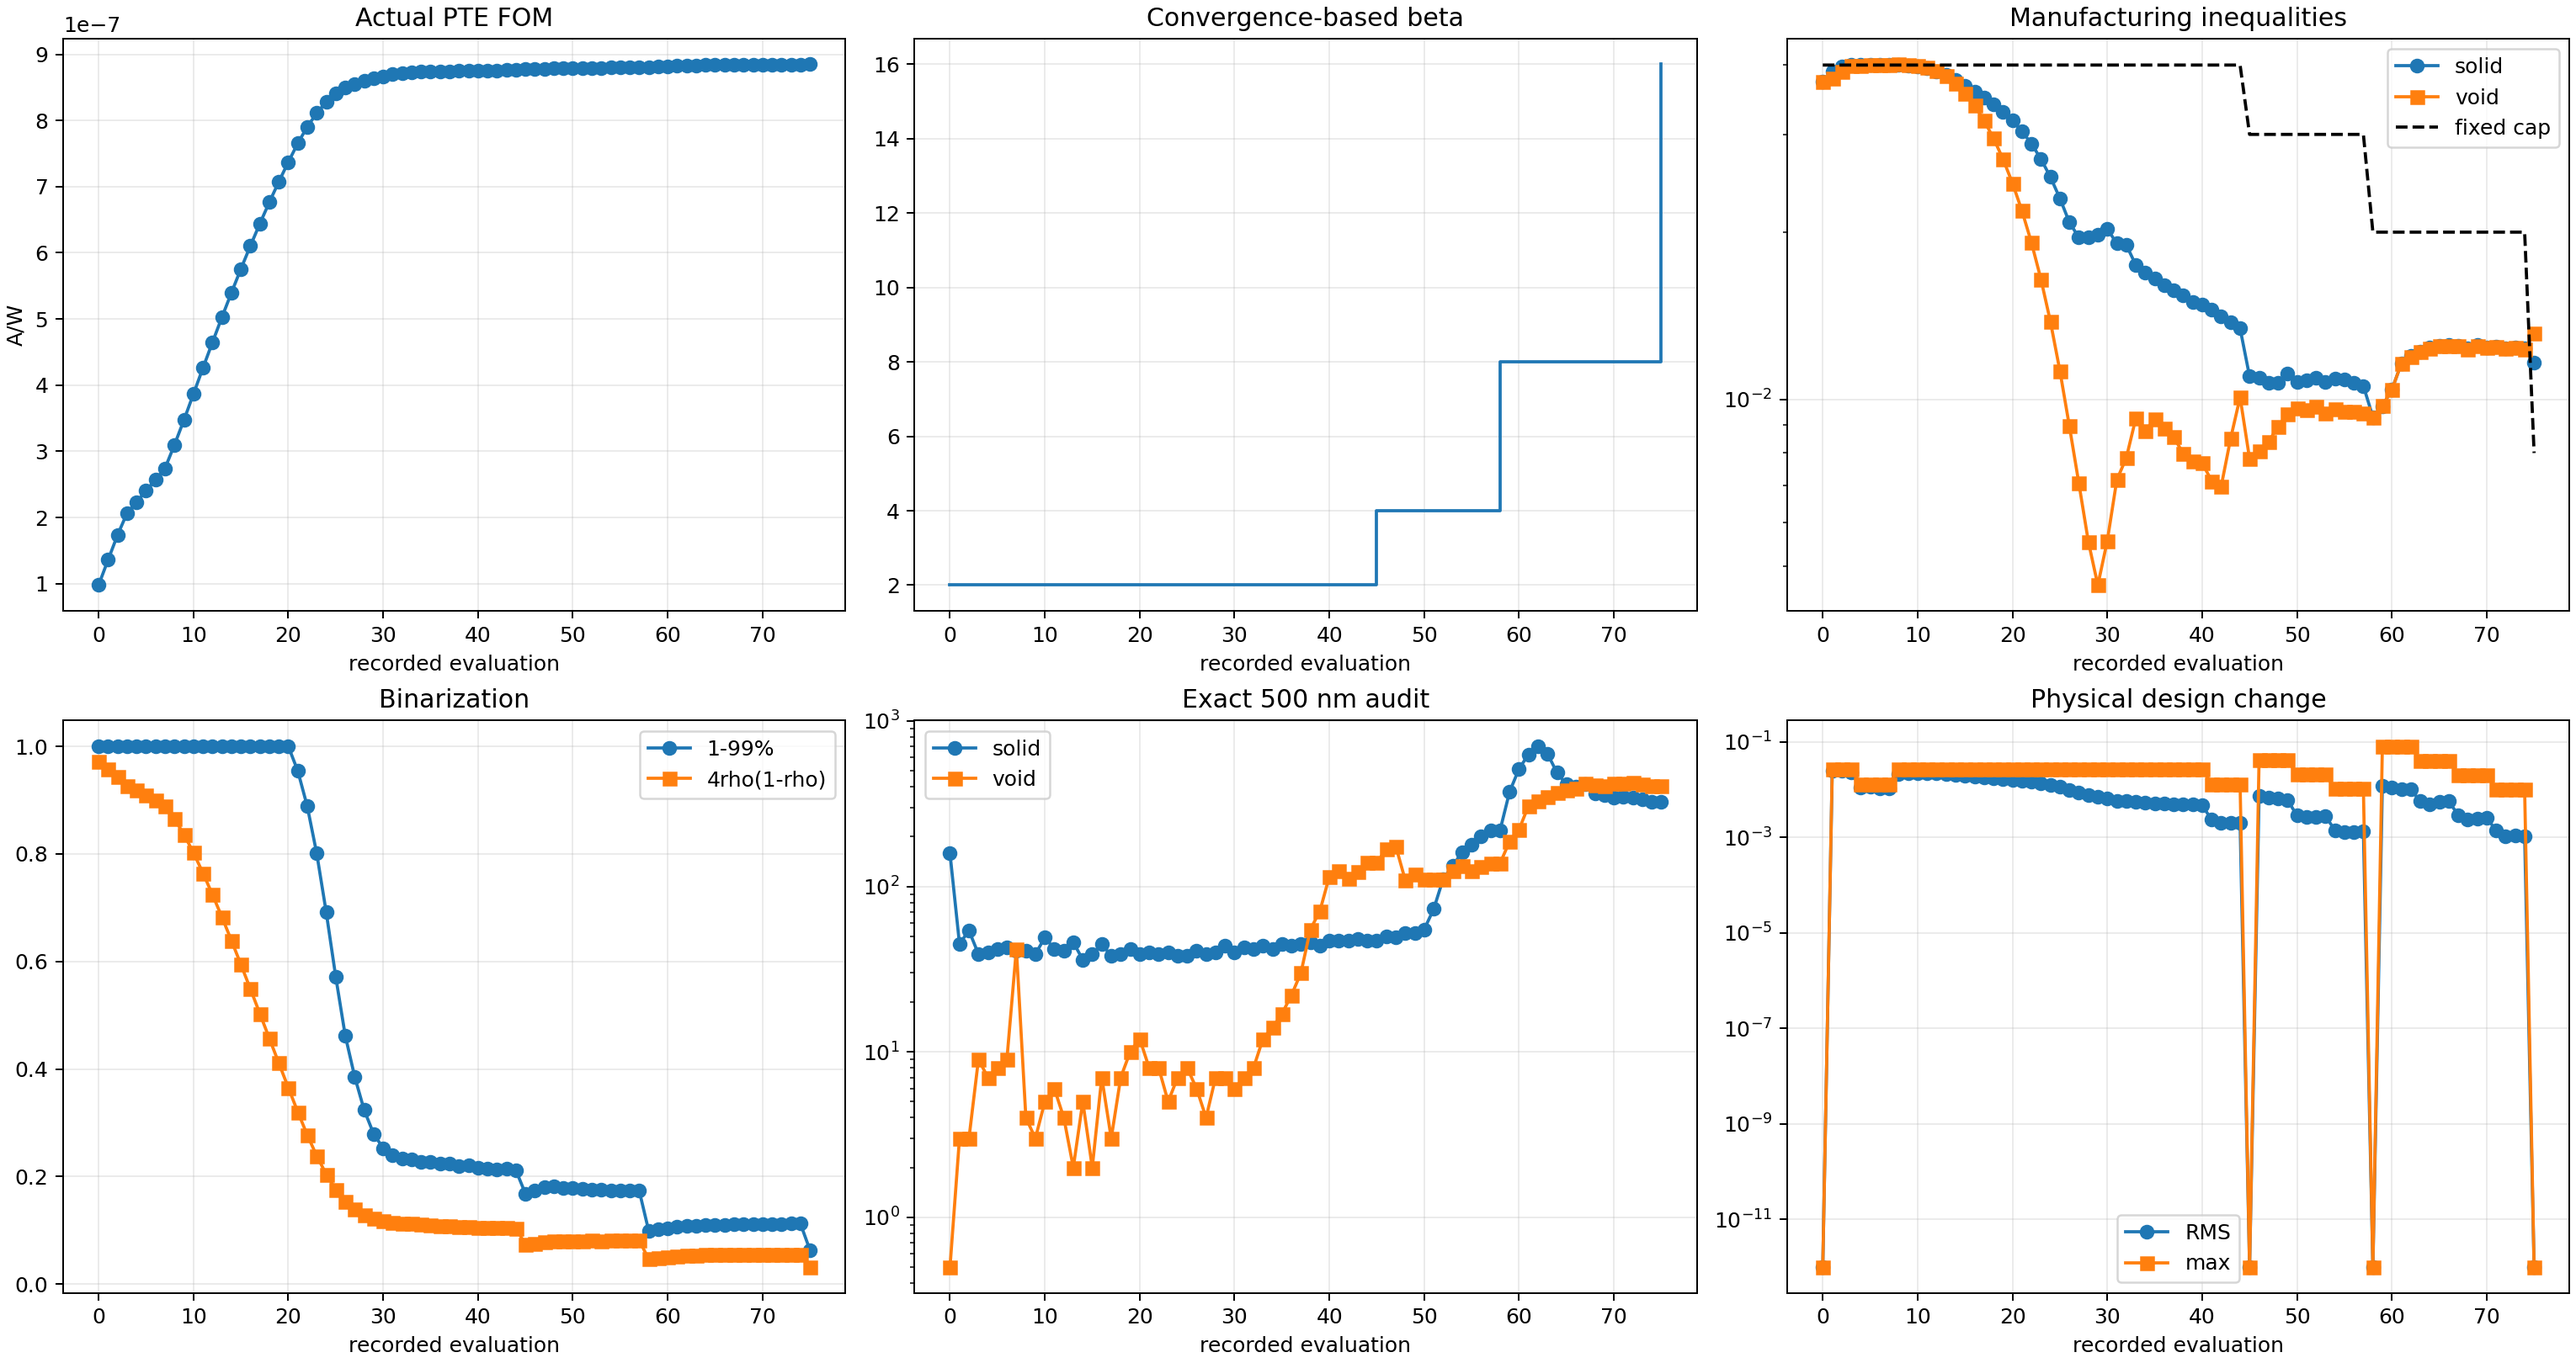
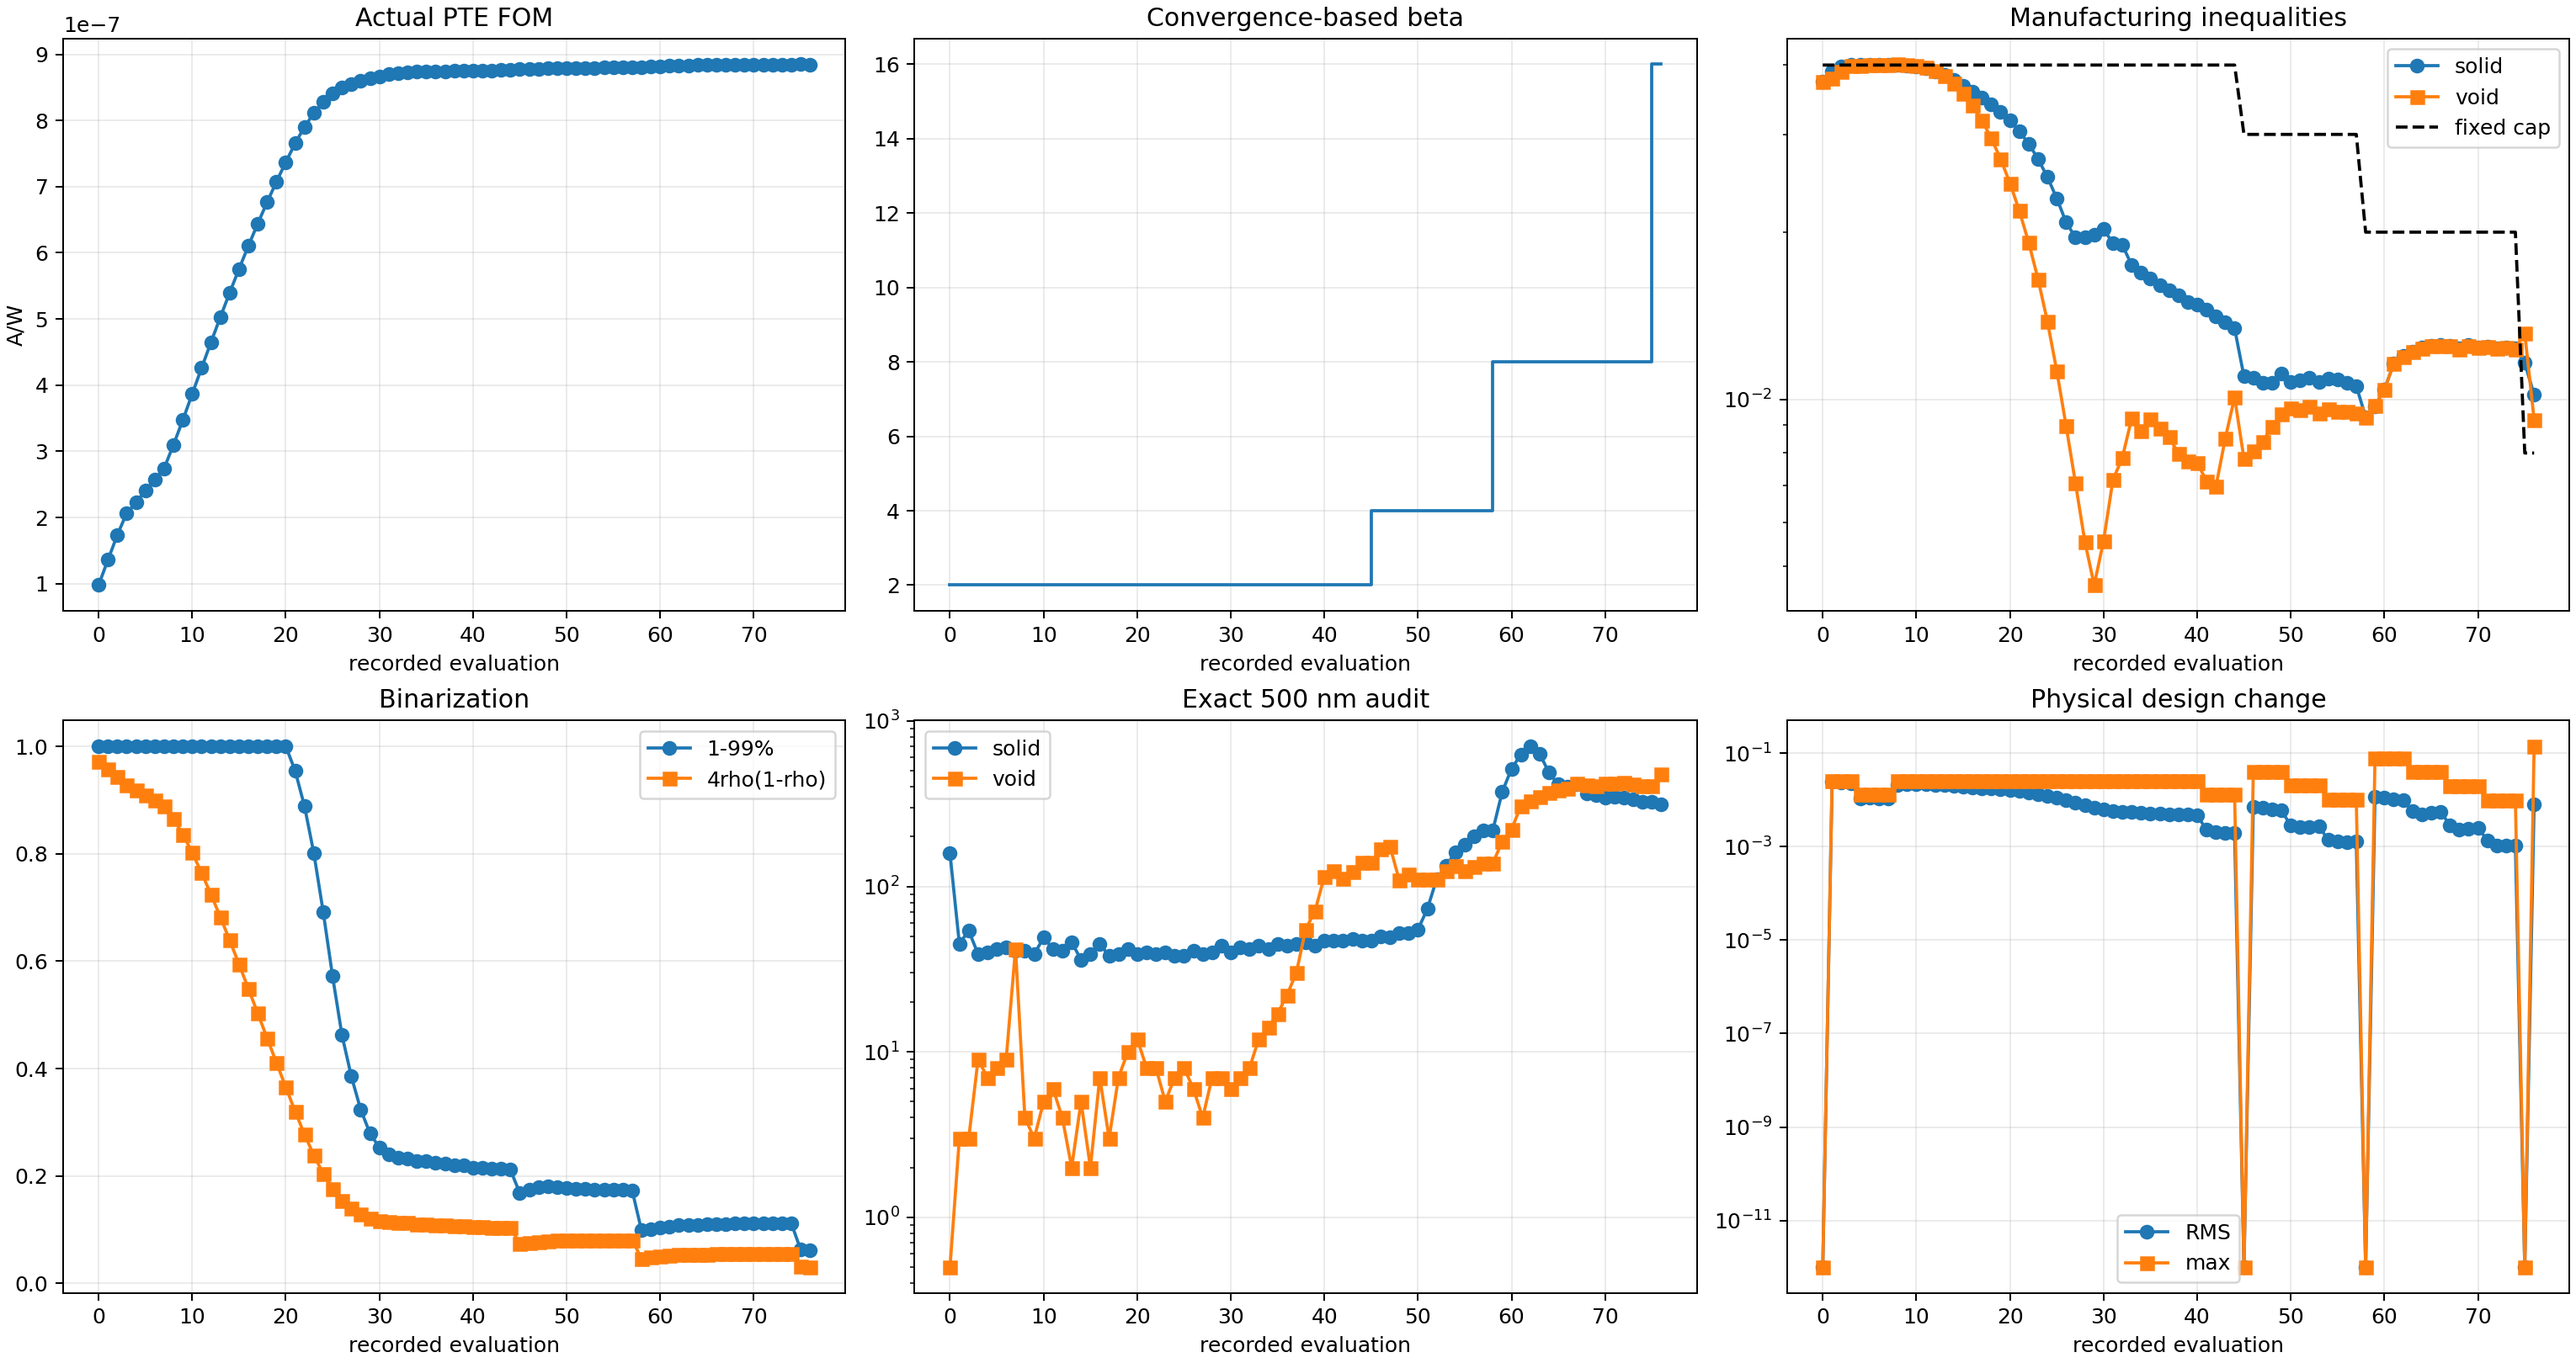
Record Run 003 run003_b016_s001_g073_accepted_mma

diff --git a/photothermal_pte/optimization_runs/run_003_gaussian10_w8p5_current_max_converged/results/OPTIMIZATION_REPORT.md b/photothermal_pte/optimization_runs/run_003_gaussian10_w8p5_current_max_converged/results/OPTIMIZATION_REPORT.md
@@ -2,10 +2,10 @@
 
 Status: `RUNNING_CONVERGENCE_BASED_CONSTRAINED_BETA_CONTINUATION`
 
-Current stage: beta=16, accepted stage iteration=0, global iteration=72.
+Current stage: beta=16, accepted stage iteration=1, global iteration=73.
 
-Actual FOM: `8.848447860958e-07 A/W`. Fixed-cap solid/void constraints: `1.162649e-02` / `1.313920e-02` with cap `8.000000e-03`.
+Actual FOM: `8.845324246749e-07 A/W`. Fixed-cap solid/void constraints: `1.018629e-02` / `9.193790e-03` with cap `8.000000e-03`.
 
-Exact 500 nm bad cells: solid `323`, void `407`. Stage convergence: `False` (need at least 8 accepted updates).
+Exact 500 nm bad cells: solid `314`, void `479`. Stage convergence: `False` (need at least 8 accepted updates).
 
 Beta is promoted only after fixed-inequality feasibility and a four-update FOM/design plateau; it is never promoted after one nominal update.
